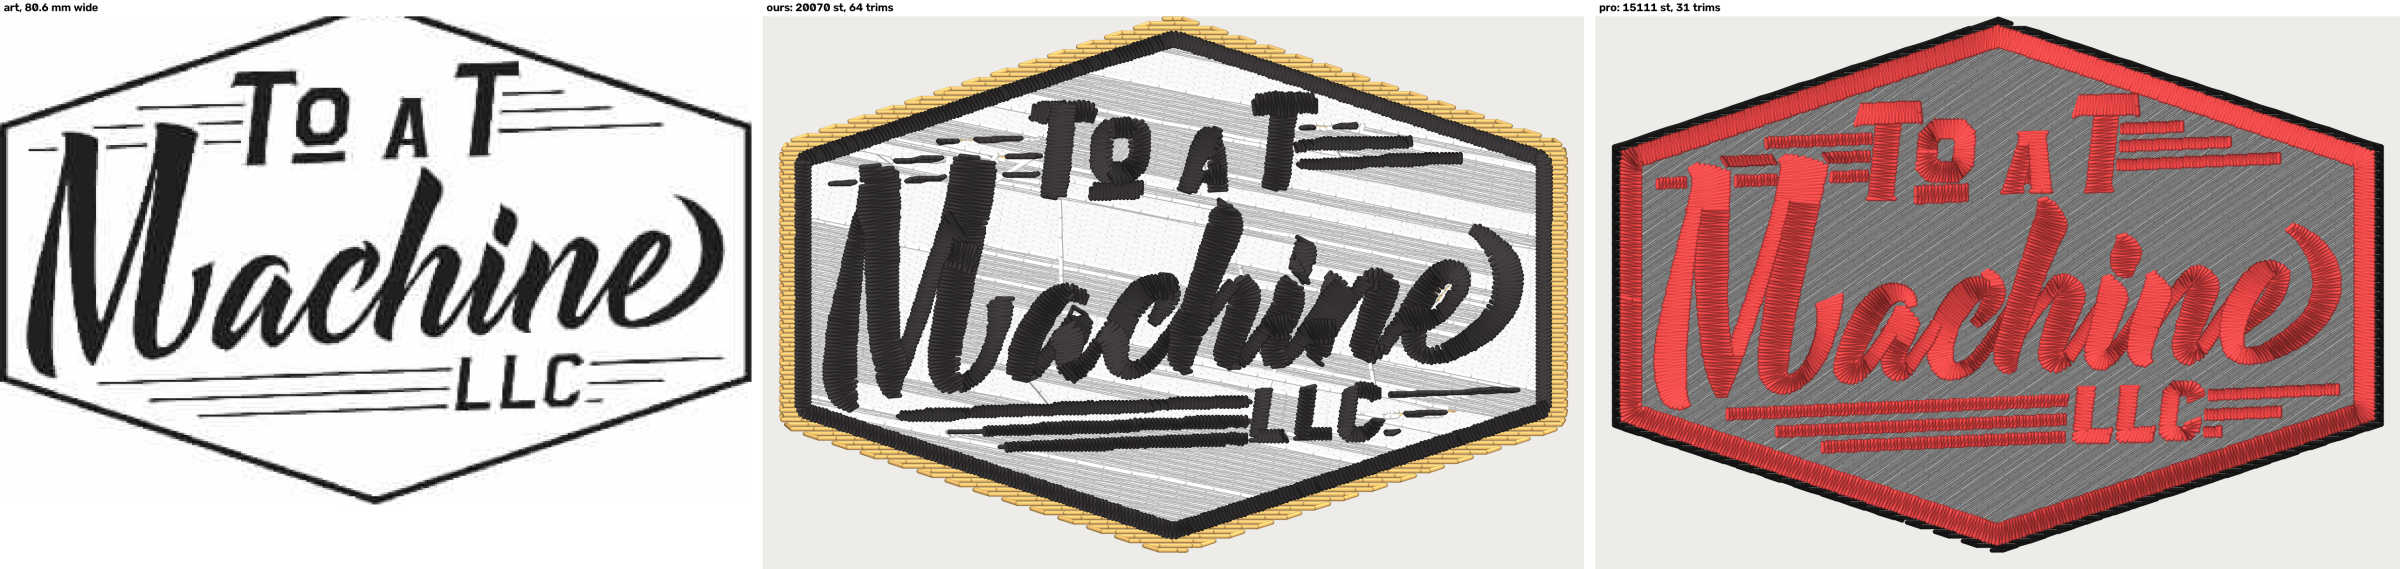
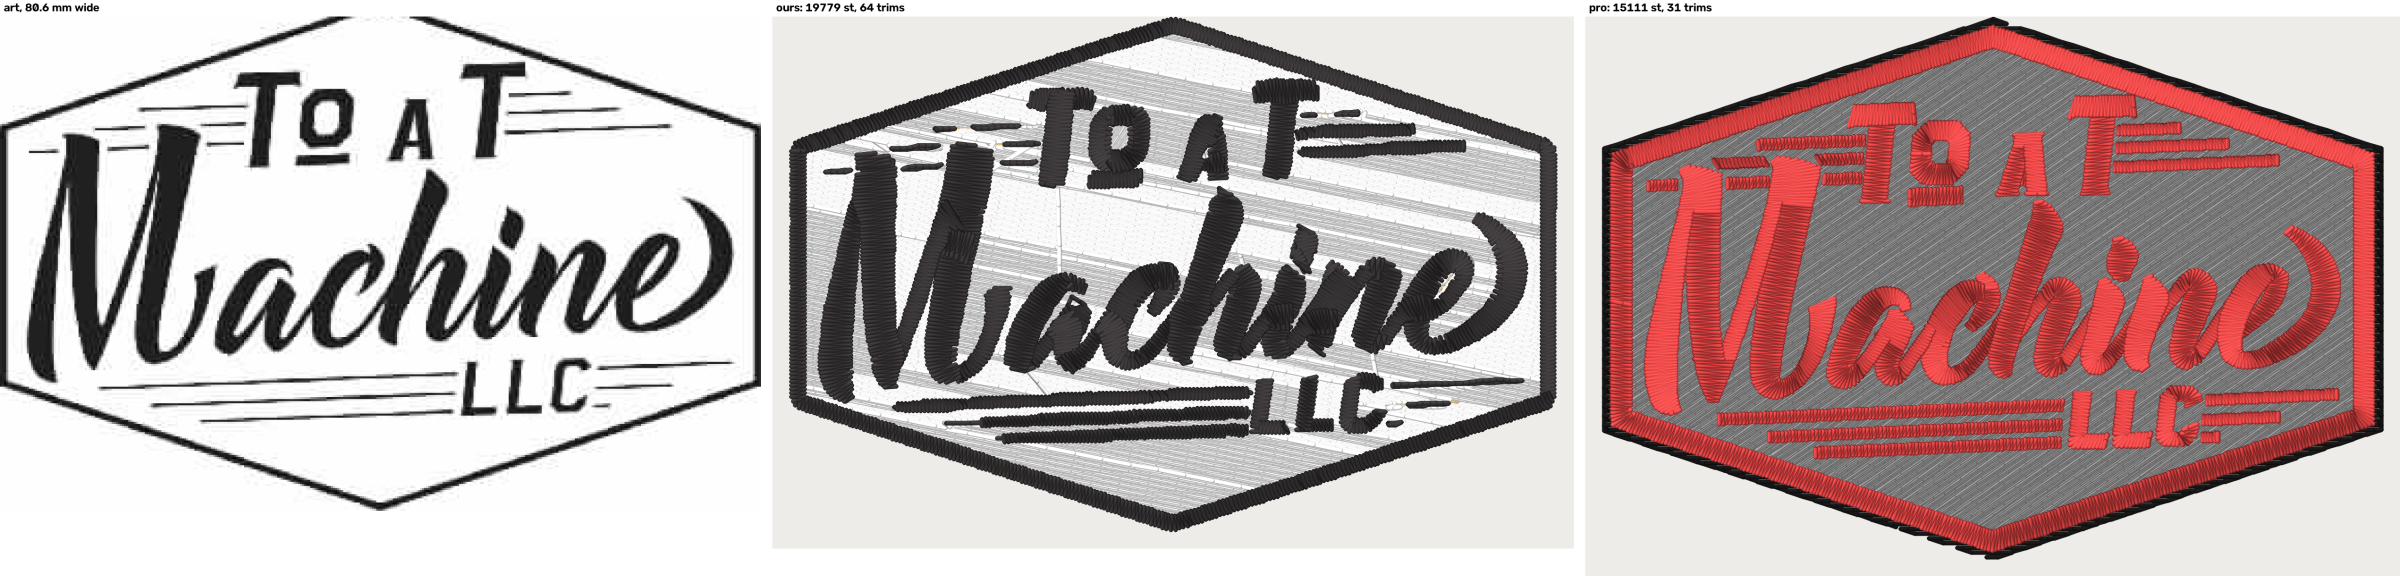
Beanie knockdown: on a badge, stop at the satin border (Kent 2026-10-21)
badge_border: a shape stage 7 sewed as satin, that is a ring (hole >= half
its outer area) and holds every other shape inside its outer edge (1%,
0.3 mm slack). Then the knockdown covers out to that outer edge
(BADGE_EDGE_MM 0) instead of 2 mm past it; shapes outside the ring keep the
margin. The pro's two badge files sit +0.74 (To a T) and -0.95 (Machine E)
mm from that edge. To a T: 2,356 -> 2,065 knockdown stitches, one piece,
0 trims, no garment-coloured ring outside the border. Becker and Roofing
have no such ring and are unchanged.

diff --git a/digitizer/digitizer_core/knockdown.py b/digitizer/digitizer_core/knockdown.py
@@ -13,8 +13,11 @@ the design sits on top instead of sinking between the ribs. Read off the DSTs
   * outline: the design grown with every hole filled. The same raster read
     gives 1.6-1.8 mm median margin on the four free-standing logos and 1.32
     on ours built at 1.5, so it reads about 0.2 mm short: the pro's margin is
-    about 1.8-2.0 mm. On the two badge files it sits level with the badge's
-    satin edge instead (0 and ~0.7 mm), which this does not copy;
+    about 1.8-2.0 mm. On the two badge files it stops at the badge's satin
+    border instead: +0.74 mm past its outer edge on To a T, 0.95 mm under it
+    on Machine E (needle points against the design's outer edge). Kent
+    2026-10-21: stop at the satin border, so a badge's knockdown ends on
+    that edge (`badge_border`, `BADGE_EDGE_MM` 0);
   * thread: Khaki / PMS 155 on both PES files that carry the job — a colour
     the design does not use, i.e. the garment's.
 
@@ -56,6 +59,19 @@ OUTLINE_SIMPLIFY_MM = 0.05
 #: Pieces of the grown outline smaller than this are dropped (a stray speck
 #: of the design grown into a 3 mm disc is not worth a trim).
 MIN_PIECE_MM2 = 10.0
+#: Badge: where the knockdown stops relative to the satin border's OUTER edge
+#: (mm, + outside). Kent 2026-10-21: "stop at the satin border". See
+#: `badge_border`.
+BADGE_EDGE_MM = 0.0
+#: A badge border is a RING: its hole holds at least this share of the area
+#: inside its outer edge (To a T's: 95%), so a solid shape with counters is not
+#: one.
+BADGE_HOLE_SHARE = 0.5
+#: ...and every other shape lies inside its outer edge, give or take this
+#: much of their area (a stray speck just outside does not undo a badge).
+BADGE_OUTSIDE_SHARE = 0.01
+#: Slack on "inside its outer edge", mm: a shape abutting the ring's outside.
+BADGE_SLACK_MM = 0.3
 SHAPE_ID = "knockdown"
 
 
@@ -63,12 +79,51 @@ def applies(cfg) -> bool:
     return bool(getattr(cfg, "beanie_knockdown", False)) and cfg.garment_id == GARMENT
 
 
-def outline(polys, margin_mm: float = MARGIN_MM) -> list[Polygon]:
-    """The design's footprint grown by `margin_mm`, holes filled, largest first."""
+def badge_border(shapes, satin_ids) -> Polygon | None:
+    """The outer edge of the design's badge border, or None.
+
+    `shapes` are (shape_id, polygon) pairs, `satin_ids` the shapes stage 7
+    sewed as satin columns. A badge border is a satin RING (`BADGE_HOLE_SHARE`)
+    whose outer edge holds every other shape (`BADGE_OUTSIDE_SHARE`). On the
+    pro's two badge beanies (To a T, Machine E) the knockdown stops at that
+    border instead of running 2 mm past it; on every free-standing logo there
+    is no such shape and the margin applies."""
+    best = None
+    for sid, g in shapes:
+        if sid not in satin_ids or g.geom_type != "Polygon" or not g.interiors:
+            continue
+        outer = Polygon(g.exterior)
+        if outer.area <= 0 or (outer.area - g.area) < BADGE_HOLE_SHARE * outer.area:
+            continue
+        others = [o for oid, o in shapes if oid != sid and not o.is_empty]
+        total = sum(o.area for o in others)
+        if total <= 0:
+            continue
+        inside = outer.buffer(BADGE_SLACK_MM)
+        out = sum(o.difference(inside).area for o in others)
+        if out > BADGE_OUTSIDE_SHARE * total:
+            continue
+        if best is None or outer.area > best.area:
+            best = outer
+    return best
+
+
+def outline(polys, margin_mm: float = MARGIN_MM, badge: Polygon | None = None) -> list[Polygon]:
+    """The design's footprint grown by `margin_mm`, holes filled, largest first.
+
+    With `badge` (`badge_border`'s outer edge) everything inside it is covered
+    out to `BADGE_EDGE_MM` from that edge and no further; only a shape lying
+    outside it still gets the margin."""
     polys = [p for p in polys if p is not None and not p.is_empty]
     if not polys:
         return []
-    grown = unary_union([p.buffer(0) for p in polys]).buffer(margin_mm)
+    if badge is not None:
+        inside = badge.buffer(BADGE_SLACK_MM)
+        parts = [badge.buffer(BADGE_EDGE_MM, join_style=2) if BADGE_EDGE_MM else badge]
+        parts += [p.buffer(0).buffer(margin_mm) for p in polys if not inside.covers(p)]
+        grown = unary_union(parts)
+    else:
+        grown = unary_union([p.buffer(0) for p in polys]).buffer(margin_mm)
     # Filling holes is a second union, not a per-piece step: an island of the
     # design inside a wide counter grows into its own piece, which lies inside
     # its host once the host's hole is filled and would sew twice.
@@ -132,18 +187,38 @@ def _stay_down(runs: list[StitchRun], poly: Polygon) -> list[StitchRun]:
     return out
 
 
-def knockdown_block(polys, cfg, trim_at_mm: float) -> tuple[StitchBlock | None, dict]:
+def satin_shape_ids(blocks) -> set[str]:
+    """Shapes stage 7 sewed mostly as satin columns (satin/border points over
+    fill points)."""
+    sat: dict[str, int] = {}
+    fill: dict[str, int] = {}
+    for b in blocks:
+        for r in b.runs:
+            if r.kind in (stitches.SATIN, stitches.BORDER):
+                sat[r.shape_id] = sat.get(r.shape_id, 0) + len(r.points)
+            elif r.kind == stitches.FILL:
+                fill[r.shape_id] = fill.get(r.shape_id, 0) + len(r.points)
+    return {sid for sid, n in sat.items() if n > fill.get(sid, 0)}
+
+
+def knockdown_block(shapes, cfg, trim_at_mm: float,
+                    satin_ids=frozenset()) -> tuple[StitchBlock | None, dict]:
     """-> (the knockdown block, report) or (None, report) when it declines.
 
-    `polys` are the shapes the plan sews (stage 5's polygons). The block's
+    `shapes` are the plan's (shape_id, polygon) pairs (stage 5's polygons; a
+    bare polygon is accepted as one with no id), `satin_ids` the ones sewn as
+    satin (`satin_shape_ids`), which is how a badge border is told. The block's
     runs are tied like any colour block's: in at the start, off at the end and
     either side of every trim between pieces.
     """
-    report = {"applied": False, "reason": "", "pieces": 0, "area_mm2": 0.0}
+    report = {"applied": False, "reason": "", "pieces": 0, "area_mm2": 0.0, "badge": False}
     if cfg.garment_rgb is None:
         report["reason"] = "no garment colour"
         return None, report
-    pieces = outline(polys)
+    shapes = [s if isinstance(s, tuple) else (f"_{i}", s) for i, s in enumerate(shapes)]
+    badge = badge_border(shapes, satin_ids)
+    report["badge"] = badge is not None
+    pieces = outline([g for _, g in shapes], badge=badge)
     if not pieces:
         report["reason"] = "nothing to cover"
         return None, report

diff --git a/digitizer/tests/test_beanie_knockdown.py b/digitizer/tests/test_beanie_knockdown.py
@@ -15,7 +15,7 @@ from dataclasses import replace
 
 import numpy as np
 import pytest
-from shapely.geometry import LineString, MultiPoint, Point, box
+from shapely.geometry import LineString, MultiPoint, Point, Polygon, box
 from shapely.ops import unary_union
 
 from digitizer_core import PipelineConfig, digitize, knockdown, stitches
@@ -192,3 +192,57 @@ def test_a_lift_inside_the_knockdown_becomes_travel_along_the_edge():
     pts = [p for r in fixed for p in r.points]
     assert all(cover.contains(Point(p)) for p in pts)
     assert max(math.dist(a, b) for a, b in zip(pts, pts[1:])) <= knockdown.STITCH_MM + 1e-6
+
+
+# --- the badge case: stop at the satin border (Kent 2026-10-21) ------------------------
+
+def _badge():
+    hexagon = Polygon([(0, 20), (15, 0), (65, 0), (80, 20), (65, 40), (15, 40)])
+    ring = hexagon.difference(hexagon.buffer(-2.0))              # a 2 mm satin border
+    text = [box(20, 12, 30, 28), box(35, 12, 45, 28), box(50, 12, 60, 28)]
+    return hexagon, [("border", ring)] + [(f"t{i}", t) for i, t in enumerate(text)]
+
+
+def test_a_satin_ring_holding_everything_is_a_badge_border():
+    hexagon, shapes = _badge()
+    edge = knockdown.badge_border(shapes, {"border"})
+    assert edge is not None and edge.symmetric_difference(hexagon).area < 1e-6
+
+
+def test_the_badge_knockdown_stops_at_the_borders_outer_edge():
+    hexagon, shapes = _badge()
+    block, rep = knockdown.knockdown_block(shapes, _cfg(), 3.0, {"border"})
+    assert rep["badge"] and rep["pieces"] == 1
+    pts = [p for r in block.runs for p in r.points]
+    reach = hexagon.buffer(knockdown.BADGE_EDGE_MM + 0.05)
+    assert all(reach.contains(Point(p)) for p in pts)
+    xs = [p[0] for p in pts]
+    assert min(xs) == pytest.approx(0.0, abs=0.6) and max(xs) == pytest.approx(80.0, abs=0.6)
+
+
+@pytest.mark.parametrize("why", ["fill", "solid", "outsider"])
+def test_not_a_badge_keeps_the_margin(why):
+    hexagon, shapes = _badge()
+    satin = {"border"}
+    if why == "fill":                                            # the ring sews as fill
+        satin = set()
+    elif why == "solid":                                         # a field, not a ring
+        shapes = [("border", hexagon.difference(box(38, 18, 42, 22)))] + shapes[1:]
+    else:                                                        # a mark outside it
+        shapes = shapes + [("mark", box(85, 15, 95, 25))]
+    assert knockdown.badge_border(shapes, satin) is None
+    block, rep = knockdown.knockdown_block(shapes, _cfg(), 3.0, satin)
+    assert not rep["badge"]
+    xs = [p[0] for r in block.runs for p in r.points]
+    assert min(xs) == pytest.approx(-knockdown.MARGIN_MM, abs=0.6)
+
+
+def test_satin_shape_ids_reads_what_stage7_sewed():
+    blk = StitchBlock(thread_index=1, thread_number=CHART[1].number, rgb=CHART[1].rgb, runs=[
+        StitchRun(points=[(0, 0)] * 10, kind=stitches.SATIN, shape_id="a"),
+        StitchRun(points=[(0, 0)] * 3, kind=stitches.UNDERLAY, shape_id="a"),
+        StitchRun(points=[(0, 0)] * 5, kind=stitches.SATIN, shape_id="b"),
+        StitchRun(points=[(0, 0)] * 9, kind=stitches.FILL, shape_id="b"),
+        StitchRun(points=[(0, 0)] * 4, kind=stitches.BORDER, shape_id="c"),
+    ])
+    assert knockdown.satin_shape_ids([blk]) == {"a", "c"}

diff --git a/digitizer/digitizer_core/config.py b/digitizer/digitizer_core/config.py
@@ -3721,7 +3721,8 @@ class PipelineConfig:
     # Beanie knockdown (rule R9, `docs/pro-digitizer-rules-2026-10-21.md`;
     # `knockdown.py`). ON, a design on `garment_id == "beanie"` opens with
     # its own colour block: a sparse tatami (0.5 mm rows, 3.5 mm stitches, no
-    # underlay) over the whole design grown 2.0 mm, holes filled, in the cone
+    # underlay) over the whole design grown 2.0 mm (on a badge: out to its
+    # satin border's outer edge and no further), holes filled, in the cone
     # nearest `garment_rgb` — the professional's habit on all 6 beanie files
     # (5 jobs) in his zip, where it flattens the knit's pile. No garment
     # colour, no knockdown. Every other garment is untouched either way.

diff --git a/digitizer/digitizer_core/pipeline.py b/digitizer/digitizer_core/pipeline.py
@@ -1862,7 +1862,8 @@ def plan_stitches(result: PipelineResult, cfg: PipelineConfig | None = None) -> 
     # sewn first, on a beanie with a known garment colour — `knockdown.py`.
     if knockdown.applies(cfg):
         kd, _kd_report = knockdown.knockdown_block(
-            [p.polygon for p in planned], cfg, fabric.trim_at_mm)
+            [(p.region.shape_id, p.polygon) for p in planned], cfg, fabric.trim_at_mm,
+            knockdown.satin_shape_ids(blocks))
         if kd is not None:
             blocks = knockdown.prepend(blocks, kd)
 

diff --git a/docs/beanie-knockdown-2026-10-21.md b/docs/beanie-knockdown-2026-10-21.md
@@ -31,15 +31,23 @@ lines at 10 px/mm (so it reads about 0.2 mm short; see "ours" below, built at 2.
 - **No underlay** (the rules doc's §1d: BARE or RUNONLY).
 - **Colour:** both PES files that carry the job name the knockdown cone **Khaki** /
   **PMS 155**, a colour the design never uses: the garment's. DST carries no colour.
-- **The badge files differ:** on To a T and Machine E the badge's own satin border is
-  the outline, so the knockdown stops level with it (0 to ~0.7 mm). Not copied here.
+- **The badge files differ:** on To a T and Machine E the knockdown stops at the
+  badge's satin border, not 2 mm past it. Needle points against the design's outer
+  edge: To a T **+0.74 mm** (p10/p90 0.59/0.85), Machine E **-0.95 mm**, under the
+  satin (-1.59/-0.36). Two files, opposite sides of the edge.
 
 ## What was built
 
 `knockdown.knockdown_block`, called from `pipeline.plan_stitches` after stage 7:
 
 1. Union of every planned shape (stage 5's polygons), grown by `MARGIN_MM` 2.0, holes
-   filled, pieces under 10 mm² dropped.
+   filled, pieces under 10 mm² dropped. **Badge** (Kent, 2026-10-21: "stop at the satin
+   border"): when one shape is a satin ring (its hole is at least half the area inside
+   its outer edge) and every other shape lies inside that outer edge (to within 1% of
+   their area, 0.3 mm slack), the knockdown covers out to that outer edge
+   (`BADGE_EDGE_MM` 0, between the pro's +0.74 and -0.95) and no further. A shape
+   outside the ring still gets the 2 mm margin. Stage 7's runs decide "satin": satin
+   and border points outnumber fill points for that shape.
 2. `stage6_fill.stitch_shape`, tatami, rows `ROW_MM` 0.50, stitch `STITCH_MM` 3.5,
    `underlay_style="none"`, angle auto.
 3. **Every lift inside a piece becomes a run along the edge** (`_stay_down`). Stage 6's
@@ -66,13 +74,15 @@ Read off our `ours.dst` with the same script as the pro's table.
 |---|---|---|---|---|---|---|---|---|
 | Becker @ 76.8 mm, khaki | 2,514 | 1 / 0 | 0.49 | 3.47 | 1.62 / 1.86 / 2.28 | 1.80 | 23 -> 23 | 5,698 -> 8,212 |
 | Roofing @ 90.8 mm, charcoal | 1,682 | 1 / 0 | 0.48 | 3.47 | 1.68 / 1.82 / 2.02 | 1.82 | 33 -> 33 | 6,092 -> 7,774 |
-| To a T @ 80.6 mm, khaki | 2,356 | 1 / 0 | 0.51 | 3.50 | 1.50 / 1.64 / 1.74 | 0.84 (badge) | 62 -> 62 | 17,714 -> 20,070 |
+| To a T @ 80.6 mm, khaki (badge) | 2,065 | 1 / 0 | 0.51 | 3.50 | 0.00 / 0.00 / 0.00 | 0.84 | 62 -> 62 | 17,714 -> 19,779 |
 
 Trims and stitches are pystitch's read of each `ours.dst`, OFF and ON alike. The
 knockdown costs no trim on any of the three and one colour change each. On the
 two free-standing logos the margin lands on the pro's (1.86 vs 1.80, 1.82 vs 1.82).
-On To a T, a badge, ours reaches about 0.8 mm further than his: he stops the
-knockdown at the badge's satin border.
+On To a T, a badge, ours stops on the border's outer edge (the raster reads 0.00 at
+every percentile, its 0.3 mm lines sitting on the edge), where his reads 0.84. Before
+the badge rule it ran 2 mm past (1.64 on this raster, 2,356 stitches), which showed as
+a garment-coloured ring outside the border.
 
 Renders: `docs/renders/beanie-knockdown-2026-10-21/` — `<job>_on.png` is
 art | ours ON | pro at 20 px/mm (pro colours are pystitch's stand-ins: a DST has none),
@@ -88,7 +98,6 @@ garment colour) is the pro's habit on 6 of 6 files.
 
 ## Not done
 
-- The badge case (knockdown level with a satin border rather than 2 mm past it).
 - Manual digitizing (`manual.py`) does not call it.
 - The browser engine (`src/`) has no knockdown.
 - OFF is the pre-flip engine byte for byte: `tests/test_beanie_knockdown.py` pins

diff --git a/.claude/memory/beanie-knockdown-2026-10-21.md b/.claude/memory/beanie-knockdown-2026-10-21.md
@@ -24,5 +24,7 @@ Traps found building it:
 - The margin raster read (0.3 mm lines, 10 px/mm) reads ~0.2 mm SHORT: ours built
   at 1.5 read 1.32, so the pro's "1.6-1.8" is ~1.8-2.0 true. Calibrate a raster
   instrument on our own known build before quoting the pro.
-- Not copied: on badge designs (To a T, Machine E) the pro stops the knockdown at
-  the satin border. Related: [[pro-rules-across-jobs-2026-10-21]].
+- Badges: Kent said "stop at the satin border". Built as `badge_border` (a satin
+  ring holding every other shape), so the knockdown ends at the ring's outer edge.
+  The pro's two badge files sit +0.74 and -0.95 mm from that edge.
+  Related: [[pro-rules-across-jobs-2026-10-21]].
